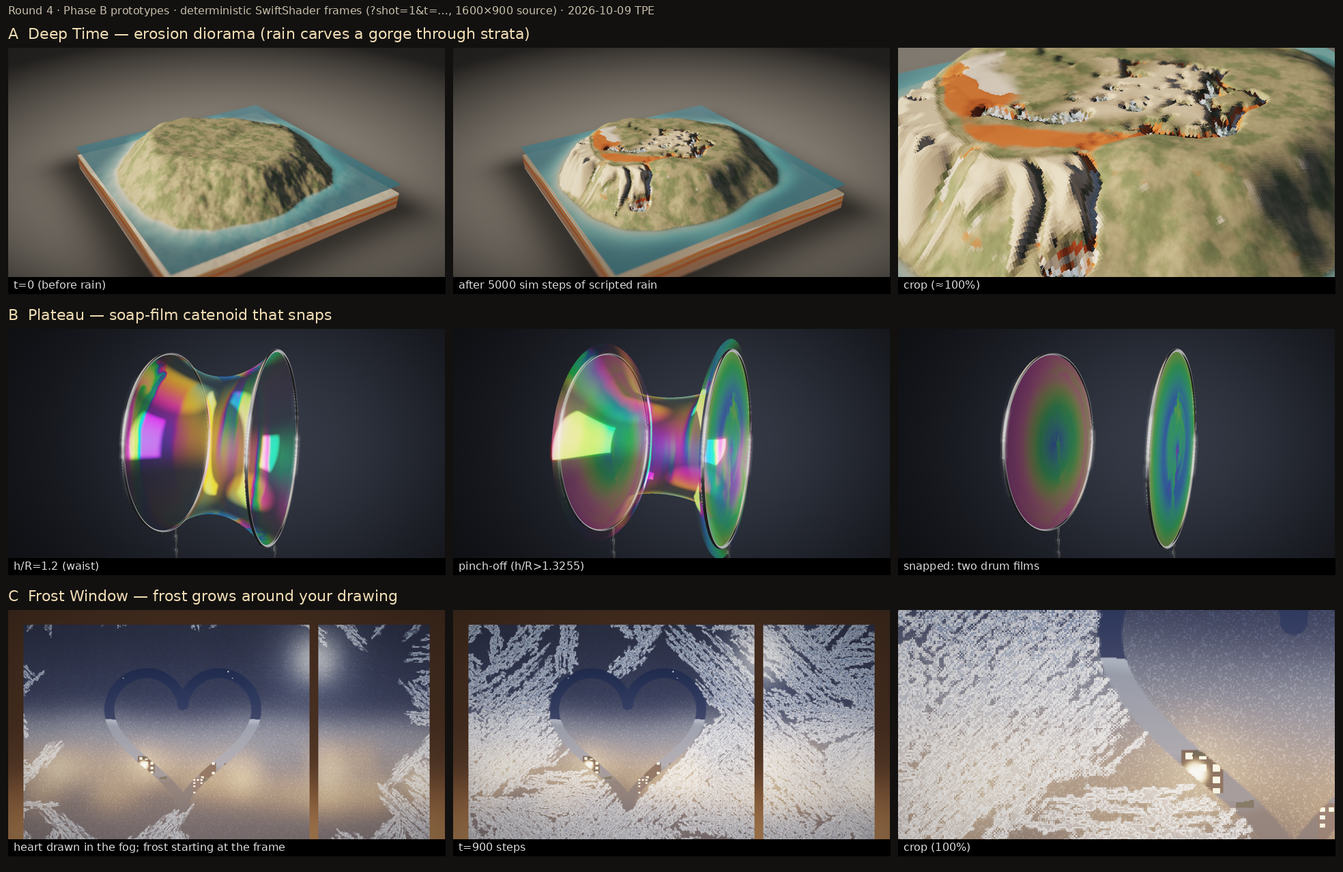
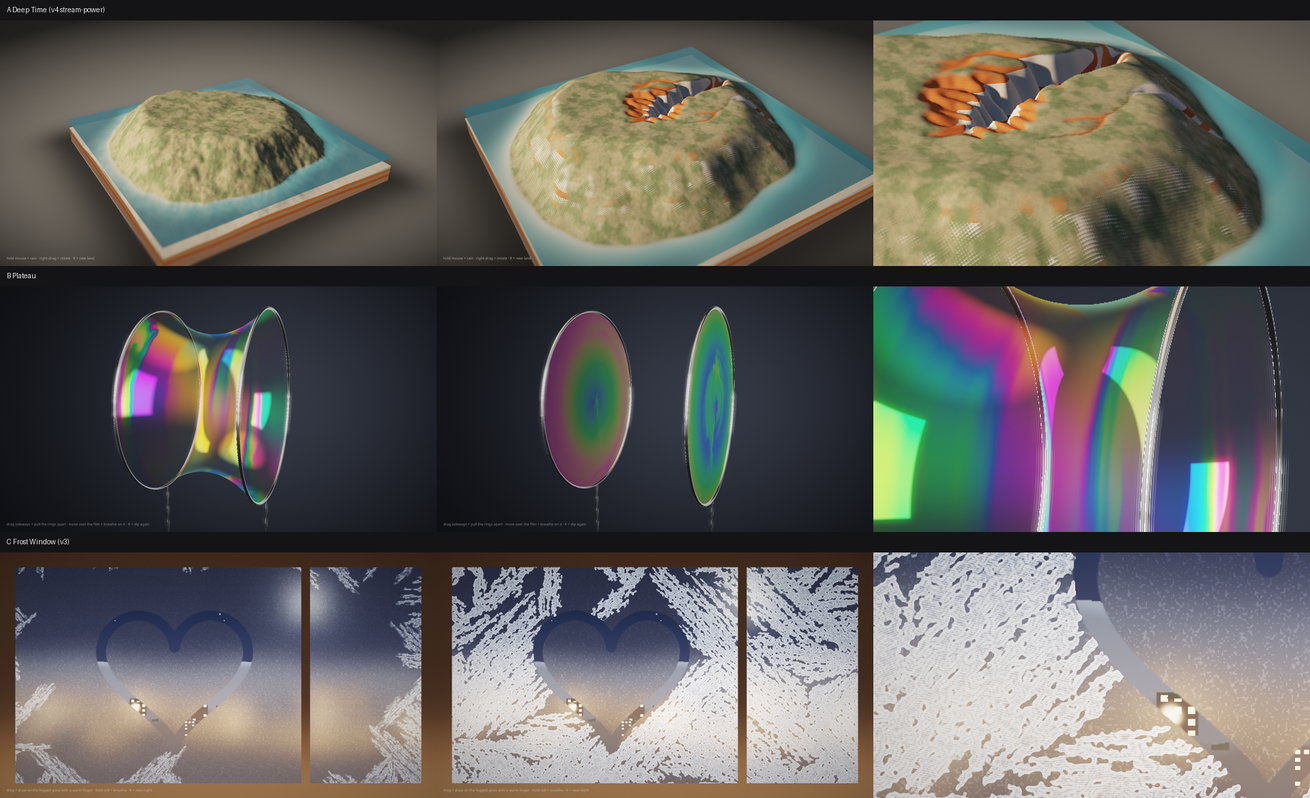
round4-lab: Phase B rev2 — stream-power Deep Time, frost v3, evaluations, contact sheet

diff --git a/20261009-round4-lab/prototypes/deep-time/main.js b/20261009-round4-lab/prototypes/deep-time/main.js
@@ -115,14 +115,53 @@ void main(){ vec2 px=vec2(1./N); vec4 t=texture(T,vUv); float b=t.x; float acc=0
   b += 0.02*acc; b = mix(b, avg, t.y>0.05 ? 0.035 : 0.003);   // slight creep smooths pipe-model checkerboarding
   o = vec4(b, t.yzw); }`, { T: { value: null } });
 
+
+// ---------------------------------------------------------------- alternative model: stream-power landscape evolution (?model=sp)
+const SPM = Q.get('model') !== 'pipe';   // default: stream-power; ?model=pipe = virtual-pipe shallow water (v1-v3)
+const accMat = pass(`
+uniform sampler2D T; uniform vec3 rain; uniform float rainAmt;
+float Hh(vec2 uv){ return texture(T,uv).x; }
+void main(){ vec2 px=vec2(1./N); float acc=0.;
+  vec2 rp = vUv - rain.xy; acc += rainAmt*exp(-dot(rp,rp)/(rain.z*rain.z)) + 0.;
+  for(int j=-1;j<=1;j++) for(int i=-1;i<=1;i++){ if(i==0&&j==0) continue;
+    vec2 q = vUv + vec2(i,j)*px; float hq = Hh(q); float Aq = texture(T,q).z;
+    // fraction of q's outflow that goes to me (multiple-flow-direction, slope^1.3)
+    float tot=0., mine=0.;
+    for(int b=-1;b<=1;b++) for(int a=-1;a<=1;a++){ if(a==0&&b==0) continue;
+      float dl = length(vec2(a,b)); float sl = (hq - Hh(q+vec2(a,b)*px))/dl;
+      if (sl>0.) { float w=pow(sl,1.3); tot+=w; if(a==-i&&b==-j) mine=w; } }
+    if (tot>0.) acc += Aq*mine/tot; }
+  vec4 t=texture(T,vUv); o = vec4(t.x, t.y, acc, t.w); }`, { T: { value: null }, rain: waterMat.uniforms.rain, rainAmt: { value: 0 } });
+const eroMat = pass(`
+uniform sampler2D T, B;
+void main(){ vec2 px=vec2(1./N); vec4 t=texture(T,vUv); float b=t.x, A=t.z;
+  float hmin=b; float S=0.;
+  for(int j=-1;j<=1;j++) for(int i=-1;i<=1;i++){ if(i==0&&j==0) continue; float hn=texture(T,vUv+vec2(i,j)*px).x; float sl=(b-hn)/length(vec2(i,j)); if(sl>S){S=sl;} hmin=min(hmin,hn); }
+  float hard = hardness(b + bandWarp(vUv));
+  float E = float(${+(Q.get('kc')||200)})*0.0001*hard*pow(max(A-3.0,0.),0.5)*min(S,3.0);
+  if (b > 0.2) b = max(b - E, min(b, hmin + 0.02));
+  else if (A > 2.0) b = min(b + 0.0008*sqrt(A), -0.25);           // sediment fan into the shallow sea
+  float lap = texture(T,vUv+vec2(px.x,0)).x+texture(T,vUv-vec2(px.x,0)).x+texture(T,vUv+vec2(0,px.y)).x+texture(T,vUv-vec2(0,px.y)).x-4.*b;
+  b += 0.0006*lap;                                                  // hillslope creep
+  float river = clamp((log2(1.+A) - 3.0)*0.35, 0., 2.0);           // channel water depth (cells) for rendering
+  float d = b < 0. ? -b : river;
+  float wet = max(t.w*0.998, smoothstep(0.1,0.6,river));
+  o = vec4(b, d, A, wet); }`, { T: { value: null }, B: { value: B0.texture } });
+function stepSP(rainOn) {
+  accMat.uniforms.T.value = T0.texture; accMat.uniforms.rainAmt.value = rainOn ? 1.0 : 0; run(accMat, T1); [T0, T1] = [T1, T0];
+  eroMat.uniforms.T.value = T0.texture; run(eroMat, T1); [T0, T1] = [T1, T0];
+  if (!Q.has('notherm')) { thermMat.uniforms.T.value = T0.texture; run(thermMat, T1); [T0, T1] = [T1, T0]; }
+}
+
 function run(mat, target) { quad.material = mat; renderer.setRenderTarget(target); renderer.render(simScene, simCam); }
 function init(seed) {
-  initMat.uniforms.seed.value = seed; for (const m of [fluxMat, waterMat, advMat, thermMat]) m.uniforms.seed.value = seed;
+  initMat.uniforms.seed.value = seed; for (const m of [fluxMat, waterMat, advMat, thermMat, accMat, eroMat]) m.uniforms.seed.value = seed;
   run(initMat, T0); run(initMat, B0);
   renderer.setRenderTarget(F0); renderer.setClearColor(0, 0); renderer.clear(); renderer.setRenderTarget(F1); renderer.clear();
   renderer.setRenderTarget(null);
 }
 function step(rainOn) {
+  if (SPM) return stepSP(rainOn);
   fluxMat.uniforms.T.value = T0.texture; fluxMat.uniforms.F.value = F0.texture; run(fluxMat, F1); [F0, F1] = [F1, F0];
   waterMat.uniforms.T.value = T0.texture; waterMat.uniforms.F.value = F0.texture; waterMat.uniforms.rainAmt.value = rainOn ? 0.55 : 0; run(waterMat, T1); [T0, T1] = [T1, T0];
   advMat.uniforms.T.value = T0.texture; advMat.uniforms.F.value = F0.texture; run(advMat, T1); [T0, T1] = [T1, T0];
@@ -153,7 +192,9 @@ vec3 strata(float z, vec2 uv){
   else c = mix(vec3(.78,.50,.18), vec3(.45,.24,.26), h2);                  // ochre / mauve shale
   float fine = fract(zz/(0.8*HS)); c *= 0.9 + 0.1*smoothstep(.0,.15,fine)*smoothstep(1.,.8,fine);
   return c*0.42; }
-float Hs(vec2 uv){ return texture(T,uv).x; }
+vec4 TB(vec2 uv){ vec2 p=uv*N-.5; vec2 i=floor(p), f=fract(p); vec2 q=(i+.5)/N; float e=1./N;
+  return mix(mix(texture(T,q),texture(T,q+vec2(e,0)),f.x), mix(texture(T,q+vec2(0,e)),texture(T,q+vec2(e,e)),f.x), f.y); }
+float Hs(vec2 uv){ return TB(uv).x; }
 `;
 const terrainMat = new THREE.ShaderMaterial({ glslVersion: THREE.GLSL3,
   uniforms: { T: { value: null }, B: { value: B0.texture }, N: { value: N }, HS: { value: HS }, seed: { value: 3 }, sunDir: { value: new THREE.Vector3(-0.85, 0.40, 0.15).normalize() }, rain: waterMat.uniforms.rain, rainAmt: { value: 0 }, VS: { value: VERT_SCALE } },
@@ -166,7 +207,7 @@ const terrainMat = new THREE.ShaderMaterial({ glslVersion: THREE.GLSL3,
     for(int i=0;i<56;i++){ vec2 p=uv+d*t; if(p.x<0.||p.y<0.||p.x>1.||p.y>1.) break;
       float hh = Hs(p)*VS; float ray = h + 0.0015 + slope*t; res = min(res, 10.*(ray-hh)/t); t += max(0.6/N, t*0.06); }
     return smoothstep(0.,1.,clamp(res,0.,1.)); }
-  void main(){ vec2 px=vec2(1./N); vec4 t=texture(T,vUv);
+  void main(){ vec2 px=vec2(1./N); vec4 t=TB(vUv);
     float bl=Hs(vUv-vec2(px.x,0.)), br=Hs(vUv+vec2(px.x,0.)), bt=Hs(vUv+vec2(0.,px.y)), bb=Hs(vUv-vec2(0.,px.y));
     float bl2=Hs(vUv-vec2(2.*px.x,0.)), br2=Hs(vUv+vec2(2.*px.x,0.)), bt2=Hs(vUv+vec2(0.,2.*px.y)), bb2=Hs(vUv-vec2(0.,2.*px.y));
     vec3 n = normalize(vec3((bl+bl2-br-br2)*VS, 6.*px.x, -(bt+bt2-bb-bb2)*VS));
@@ -202,8 +243,8 @@ const waterMesh = new THREE.Mesh(new THREE.PlaneGeometry(1, 1, N - 1, N - 1), ne
     void main(){ vUv=uv; vec4 t=texture(T,uv); vD=t.y; vec3 p=vec3(position.x, (t.x+t.y)*VS + 0.0004, -position.y); vW=p; gl_Position=projectionMatrix*viewMatrix*vec4(p,1.); }`,
   fragmentShader: RCOMMON + `
   uniform float VS; uniform sampler2D F; in vec2 vUv; in vec3 vW; in float vD; out vec4 o;
-  float W(vec2 uv){ vec4 t=texture(T,uv); return t.x+t.y; }
-  void main(){ vec2 px=vec2(1./N); vec4 t=texture(T,vUv); float d=t.y; if(d<0.06) discard;
+  float W(vec2 uv){ vec4 t=TB(uv); return t.x+t.y; }
+  void main(){ vec2 px=vec2(1./N); vec4 t=TB(vUv); float d=t.y; if(d<0.10) discard;
     float hl=W(vUv-vec2(px.x,0.)), hr=W(vUv+vec2(px.x,0.)), ht=W(vUv+vec2(0.,px.y)), hb=W(vUv-vec2(0.,px.y));
     vec3 n = normalize(vec3((hl-hr)*VS, 2.*px.x, -(ht-hb)*VS));
     vec4 f=texture(F,vUv); float flow = (f.x+f.y+f.z+f.w)/max(d,0.05);
@@ -266,7 +307,7 @@ const post = new THREE.Mesh(new THREE.PlaneGeometry(2, 2), new THREE.ShaderMater
     vec3 aces(vec3 x){ return clamp((x*(2.51*x+.03))/(x*(2.43*x+.59)+.14),0.,1.); }
     void main(){ vec2 p=vUv-.5;
       // tilt-shift: blur grows away from the focus band
-      float bl = smoothstep(.12,.5,abs(vUv.y-.47))*3.0; vec3 c=vec3(0.); float w=0.;
+      float bl = smoothstep(.2,.6,abs(vUv.y-.47))*2.0; vec3 c=vec3(0.); float w=0.;
       for(int i=-3;i<=3;i++) for(int j=-3;j<=3;j++){ vec2 q=vec2(i,j); float k=exp(-dot(q,q)/6.); c+=texture(S,vUv+q*bl/res).rgb*k; w+=k; }
       c/=w; c = aces(c*1.05); c = pow(c, vec3(1./2.2));
       c *= 1.-0.35*dot(p,p)*1.8; c += (fract(sin(dot(gl_FragCoord.xy,vec2(12.9898,78.233)))*43758.5453)-.5)/255.;
@@ -300,8 +341,8 @@ if (SHOT) {
   const total = TSTEPS; let s = 0;
   const chunk = () => {
     const end = Math.min(total, s + 50);
-    for (; s < end; s++) { const k = s / Math.max(total, 1); const on = k < 0.75 && !Q.has('norain');
-      const a = s * 0.004; waterMat.uniforms.rain.value.set(.24 + .02 * Math.cos(a * 1.3), .52 + .03 * Math.sin(a), .045);
+    for (; s < end; s++) { const k = s / Math.max(total, 1); const on = k < (SPM ? 0.97 : 0.75) && !Q.has('norain');
+      const a = s * 0.004; waterMat.uniforms.rain.value.set(+(Q.get('rx') || .24) + .02 * Math.cos(a * 1.3), +(Q.get('ry') || .52) + .03 * Math.sin(a), +(Q.get('rr') || .045));
       step(on); }
     window.__steps = s;
     if (s < total) setTimeout(chunk, 0); else { terrainMat.uniforms.rainAmt.value = 0; render(); window.__ready = true; }

diff --git a/20261009-round4-lab/prototypes/frost-window/main.js b/20261009-round4-lab/prototypes/frost-window/main.js
@@ -38,7 +38,7 @@ const stepMat = new THREE.ShaderMaterial({ glslVersion: THREE.GLSL3, vertexShade
     float ice=s.r, vap=s.g, fog=s.b, ori=s.a;
     // vapour diffuses (5-point), fed by the fog film, consumed by ice
     float lap = texture(S,vUv+vec2(px.x,0)).g + texture(S,vUv-vec2(px.x,0)).g + texture(S,vUv+vec2(0,px.y)).g + texture(S,vUv-vec2(0,px.y)).g - 4.*vap;
-    vap += 0.22*lap + 0.0006*(fog*0.7 - vap);
+    vap += 0.22*lap + 0.0004*(fog*0.7 - vap);
     if (ice < 0.5) {
       // anisotropic stochastic attachment: a neighbour crystal grows along its six preferred axes
       float best = 0.; float bestOri = -1.;
@@ -61,6 +61,13 @@ const stepMat = new THREE.ShaderMaterial({ glslVersion: THREE.GLSL3, vertexShade
       fog *= 1.-w; vap *= 1.-w; if (w > 0.5) { ice = 0.; ori = -1.; } }
     fog = min(1., fog + 0.00005);                                  // the glass slowly fogs again
     o = vec4(ice, max(vap,0.), fog, ori); }` });
+const DISP = new THREE.WebGLRenderTarget(W, H, { type: THREE.HalfFloatType, minFilter: THREE.LinearFilter, magFilter: THREE.LinearFilter, depthBuffer: false });
+const dispMat = new THREE.ShaderMaterial({ glslVersion: THREE.GLSL3, vertexShader: VS, uniforms: { S: { value: null }, res: { value: new THREE.Vector2(W, H) } },
+  fragmentShader: `precision highp float; in vec2 vUv; out vec4 o; uniform sampler2D S; uniform vec2 res;
+  void main(){ vec2 px=1./res; float ice=0., w=0.; float oriS=0., oriC=0.;
+    for(int j=-1;j<=1;j++) for(int i=-1;i<=1;i++){ vec4 n=texture(S,vUv+vec2(i,j)*px); float k=(i==0&&j==0)?4.:((i==0||j==0)?2.:1.);
+      ice+=min(n.r,1.)*k; w+=k; if(n.a>=0.){ float a=n.a*6.2831853; oriS+=sin(a)*k; oriC+=cos(a)*k; } }
+    vec4 c=texture(S,vUv); o=vec4(ice/w, c.b, atan(oriS,oriC), min(c.r,2.)); }` });
 function run(m, t) { quad.material = m; renderer.setRenderTarget(t); renderer.render(sc, cam); renderer.setRenderTarget(null); }
 let frame = 0;
 function init(seed) { initMat.uniforms.seed.value = seed; run(initMat, A); frame = 0; }
@@ -110,29 +117,35 @@ const midA = mkB(480, 270), midB = mkB(480, 270), softA = mkB(160, 90), softB = 
 function blur(src, tmp, dst, r) { blurMat.uniforms.S.value = src.texture; blurMat.uniforms.dir.value.set(r / 1.778, 0); quad.material = blurMat; renderer.setRenderTarget(tmp); renderer.render(sc, cam);
   blurMat.uniforms.S.value = tmp.texture; blurMat.uniforms.dir.value.set(0, r); renderer.setRenderTarget(dst); renderer.render(sc, cam); renderer.setRenderTarget(null); }
 const comp = new THREE.ShaderMaterial({ glslVersion: THREE.GLSL3, vertexShader: VS,
-  uniforms: { S: { value: null }, BG: { value: midA.texture }, SOFT: { value: softA.texture }, BGS: { value: bgRT.texture }, res: { value: new THREE.Vector2(W, H) }, scr: { value: new THREE.Vector2(innerWidth, innerHeight) }, time: { value: 0 } },
-  fragmentShader: `precision highp float; in vec2 vUv; out vec4 o; uniform sampler2D S, BG, SOFT, BGS; uniform vec2 res, scr; uniform float time;` + NOISE + `
+  uniforms: { S: { value: null }, D: { value: null }, BG: { value: midA.texture }, SOFT: { value: softA.texture }, BGS: { value: bgRT.texture }, res: { value: new THREE.Vector2(W, H) }, scr: { value: new THREE.Vector2(innerWidth, innerHeight) }, time: { value: 0 } },
+  fragmentShader: `precision highp float; in vec2 vUv; out vec4 o; uniform sampler2D S, D, BG, SOFT, BGS; uniform vec2 res, scr; uniform float time;` + NOISE + `
   vec3 bgBlur(vec2 uv, float r){ return r < 0.02 ? texture(BG,uv).rgb : texture(SOFT,uv).rgb; }
   vec3 aces(vec3 x){ return clamp((x*(2.51*x+.03))/(x*(2.43*x+.59)+.14),0.,1.); }
-  void main(){ vec2 uv=vUv; vec2 px=1./res; vec4 s=texture(S,uv);
-    float ice = s.r, fog = s.b;
-    // smooth ice coverage + normal for refraction
-    float il=texture(S,uv-vec2(px.x,0)).r, ir=texture(S,uv+vec2(px.x,0)).r, it=texture(S,uv+vec2(0,px.y)).r, ib=texture(S,uv-vec2(0,px.y)).r;
-    float iceS = clamp((ice+il+ir+it+ib)/5.0, 0., 2.);
-    vec2 g = vec2(ir-il, it-ib);
-    vec3 sharp = texture(BGS, uv).rgb;                       // the village is beyond focus
-    vec3 soft  = bgBlur(uv + g*0.004, 0.05);
+  void main(){ vec2 uv=vUv; vec2 px=1./res; vec4 dd=texture(D,uv);
+    float fog = dd.g;
+    // sub-cell frost: bilinear ice coverage thresholded at screen resolution -> crisp feather edges
+    float cov = dd.r;
+    float e = 0.5*px.x;
+    float cl=texture(D,uv-vec2(px.x,0)).r, cr=texture(D,uv+vec2(px.x,0)).r, ct=texture(D,uv+vec2(0,px.y)).r, cb=texture(D,uv-vec2(0,px.y)).r;
+    vec2 g = vec2(cr-cl, ct-cb);
+    float iceM = smoothstep(0.30, 0.48, cov);
+    // needle striations along the local crystal axis (screen-res, not cell-res)
+    float ang = dd.b/6.0; vec2 ax = vec2(cos(ang), sin(ang)); vec2 sp = uv*scr;
+    float stri = 0.5+0.5*sin(dot(sp, vec2(-ax.y, ax.x))*1.9 + 6.*vnoise(sp*0.05));
+    float spark = pow(vnoise(sp*0.9), 12.)*3.;
+    vec3 sharp = texture(BGS, uv).rgb;
+    vec3 soft  = bgBlur(uv + g*0.01, 0.05);
     vec3 col = sharp;
-    // condensation: milky scattering + micro droplets
-    float drops = smoothstep(.55,.9,vnoise(uv*res*1.2));
-    vec3 fogc = soft*0.7 + vec3(.020,.018,.020) + soft*drops*0.3;
+    float drops = smoothstep(.6,.95,vnoise(uv*scr*0.35));
+    vec3 fogc = soft*0.7 + vec3(.020,.018,.020) + soft*drops*0.35;
     col = mix(col, fogc, smoothstep(0.05,0.6,fog));
-    // frost: bright crystalline, catches the warm lights through the glass
-    float edge = clamp(length(g)*0.8,0.,1.);
-    vec3 glow = bgBlur(uv + g*0.02, 0.09);
-    vec3 frost = vec3(.16,.20,.27)*0.5 + glow*1.3 + vec3(.45,.55,.7)*edge*0.25 + vec3(1.,.8,.6)*edge*dot(glow,vec3(.3))*3.;
-    frost *= 0.85 + 0.3*hash(floor(uv*res));
-    col = mix(col, frost, smoothstep(0.15, 0.9, iceS));
+    float edge = clamp(length(g)*2.5,0.,1.);
+    vec3 glow = bgBlur(uv + g*0.03, 0.09);
+    float thick = clamp(dd.a,0.,2.)*0.5;
+    vec3 frost = vec3(.14,.18,.25)*0.6 + glow*(1.0+0.8*stri) + vec3(.55,.65,.8)*edge*0.5 + vec3(1.,.82,.62)*edge*dot(glow,vec3(.3))*3.5;
+    frost *= 0.75 + 0.35*stri + 0.2*thick;
+    frost += vec3(1.,.95,.9)*spark*(0.3+dot(glow,vec3(.6)));
+    col = mix(col, frost, iceM);
     // window frame & mullion (warm-lit wood), interior reflection
     vec2 p = uv*vec2(1.778,1.);
     float frame = max(step(uv.x, .035)+step(.965, uv.x), step(uv.y,.06)+step(.94,uv.y));
@@ -146,7 +159,7 @@ const comp = new THREE.ShaderMaterial({ glslVersion: THREE.GLSL3, vertexShader: 
     o = vec4(col,1.); }` });
 function renderBG(seed) { bgMat.uniforms.seed.value = seed; quad.material = bgMat; renderer.setRenderTarget(bgRT); renderer.render(sc, cam); renderer.setRenderTarget(null);
   blur(bgRT, midB, midA, 1 / 540 * 0.8); blur(midA, softB, softA, 1 / 90 * 0.9); }
-function render() { comp.uniforms.S.value = A.texture; quad.material = comp; renderer.setRenderTarget(null); renderer.render(sc, cam); }
+function render() { dispMat.uniforms.S.value = A.texture; run(dispMat, DISP); comp.uniforms.S.value = A.texture; comp.uniforms.D.value = DISP.texture; quad.material = comp; renderer.setRenderTarget(null); renderer.render(sc, cam); }
 
 // ---------------------------------------------------------------- input
 let last = null, down = false;

diff --git a/20261009-round4-lab/prototypes/index.html b/20261009-round4-lab/prototypes/index.html
@@ -8,7 +8,7 @@ small{color:#8f887c}</style></head>
 <body><main><h1>Round 4 · 三個原型 <small>Three prototypes (Phase B)</small></h1>
 <p>桌面版 Chrome 建議。每個原型都是即時模擬，截圖來自 headless Chrome 的固定步數畫格。<small>Desktop Chrome recommended. Each is a live simulation; stills are deterministic headless frames (<code>?shot=1&amp;t=…</code>).</small></p>
 <img src="../shots/contact-sheet-phaseB.png" style="width:100%;border-radius:10px" alt="contact sheet"/>
-<div class="p"><a href="deep-time/"><img src="deep-time/shot.jpg" alt=""/></a><div><h2>A · 雨刻 Deep Time</h2><p>按住滑鼠下雨：水自己找路，切穿藏著彩色岩層的台地，泥沙沖進海裡。<small>Hold the mouse to rain on a tableland; water carves a gorge through hidden strata (GPU shallow-water + sediment transport). Right-drag rotates, R = new land.</small></p><p><a href="deep-time/">▶ Live</a></p></div></div>
+<div class="p"><a href="deep-time/"><img src="deep-time/shot.jpg" alt=""/></a><div><h2>A · 雨刻 Deep Time</h2><p>按住滑鼠下雨：水自己找路，切穿藏著彩色岩層的台地，泥沙沖進海裡。<small>Hold the mouse to rain on a tableland; water carves a gorge through hidden strata (GPU stream-power landscape evolution: drainage accumulation + incision by strata hardness; <code>?model=pipe</code> = shallow-water variant). Right-drag rotates, R = new land.</small></p><p><a href="deep-time/">▶ Live</a></p></div></div>
 <div class="p"><a href="plateau/"><img src="plateau/shot.jpg" alt=""/></a><div><h2>B · 皂膜 Plateau</h2><p>左右拖曳把兩個圈拉開：肥皂膜的腰越來越細，到臨界比例的那一瞬間「啪」地斷成兩片。<small>Drag sideways to pull two rings apart; the soap-film catenoid thins and snaps at h/R ≈ 1.3255 into two drum films. Spectral thin-film interference. R = dip again.</small></p><p><a href="plateau/">▶ Live</a></p></div></div>
 <div class="p"><a href="frost-window/"><img src="frost-window/shot.jpg" alt=""/></a><div><h2>C · 霜窗 Frost Window</h2><p>在起霧的窗上用手指畫畫；冰花從窗框長出來，繞過你畫的線。<small>Draw on a fogged night window; six-fold frost ferns grow from the frame and stop at your lines. R = new night.</small></p><p><a href="frost-window/">▶ Live</a></p></div></div>
 </main></body></html>

diff --git a/20261009-round4-lab/prototypes/frost-window/index.html b/20261009-round4-lab/prototypes/frost-window/index.html
@@ -1,5 +1,5 @@
 <!DOCTYPE html>
-<html lang="en"><head><meta charset="UTF-8"/><title>Frost Window — prototype C</title>
+<html lang="en"><head><link rel="icon" href="data:,"><meta charset="UTF-8"/><title>Frost Window — prototype C</title>
 <style>html,body{margin:0;height:100%;overflow:hidden;background:#05070c}canvas{display:block}
 #hud{position:fixed;left:24px;bottom:20px;color:#b9c4d6;font:13px/1.4 system-ui;opacity:.7;pointer-events:none}</style>
 <script type="importmap">{"imports":{"three":"../vendor/three.module.js"}}</script></head>

diff --git a/20261009-round4-lab/prototypes/deep-time/index.html b/20261009-round4-lab/prototypes/deep-time/index.html
@@ -1,5 +1,5 @@
 <!DOCTYPE html>
-<html lang="en"><head><meta charset="UTF-8"/><title>Deep Time — prototype A</title>
+<html lang="en"><head><link rel="icon" href="data:,"><meta charset="UTF-8"/><title>Deep Time — prototype A</title>
 <style>html,body{margin:0;height:100%;overflow:hidden;background:#1b1916}canvas{display:block}
 #hud{position:fixed;left:24px;bottom:20px;color:#cfc6b6;font:13px/1.4 system-ui;opacity:.75;pointer-events:none}</style>
 <script type="importmap">{"imports":{"three":"../vendor/three.module.js"}}</script></head>

diff --git a/20261009-round4-lab/prototypes/plateau/index.html b/20261009-round4-lab/prototypes/plateau/index.html
@@ -1,5 +1,5 @@
 <!DOCTYPE html>
-<html lang="en"><head><meta charset="UTF-8"/><title>Plateau — prototype B</title>
+<html lang="en"><head><link rel="icon" href="data:,"><meta charset="UTF-8"/><title>Plateau — prototype B</title>
 <style>html,body{margin:0;height:100%;overflow:hidden;background:#07080a}canvas{display:block}
 #hud{position:fixed;left:24px;bottom:20px;color:#9aa3ad;font:13px/1.4 system-ui;opacity:.75;pointer-events:none}</style>
 <script type="importmap">{"imports":{"three":"../vendor/three.module.js"}}</script></head>

diff --git a/20261009-round4-lab/prototypes/EVALUATIONS.md b/20261009-round4-lab/prototypes/EVALUATIONS.md
@@ -1,0 +1,101 @@
+# Phase B — Prototype evaluations (honest), 2026-10-09 rev. 2 (~07:35 TPE)
+
+> **Rev. 2 changes:** (1) an originality check of existing web work (below) dropped C's Originality to 0; (2) A got a second erosion model (stream-power law, `?model=sp`) that produced the first real canyon frame; (3) the recommendation moved from C to **A**.
+
+All frames: headless Chrome + SwiftShader, deterministic `?shot=1&t=<steps>` at 1600×900.
+Contact sheet: `shots/contact-sheet-phaseB.png`. Live: https://thedreamerstop.github.io/grok-bot-showroom/20261009-round4-lab/prototypes/
+Scores use the Visual Quality Benchmark v4 in RESEARCH.md (0–2 each, 24 max). Motion (#11) is judged from live
+smoke tests + frame pairs only, so it is provisional for all three.
+
+---
+
+## A · 雨刻 Deep Time — erosion diorama
+Shots: `shots/proto-deep-time-v2-t0.png` (before), `shots/proto-deep-time-v2-t5000.png` (after), `shots/proto-deep-time-v2-crop.png`; v1 history `proto-deep-time-t0/-t4000*.png`.
+- **Works:** real GPU erosion: virtual-pipe shallow water (Mei et al. 2007) + sediment capacity/erosion/deposition + semi-Lagrangian sediment advection + strata-dependent hardness + thermal slippage, 256², 4 passes/step. Hold mouse = rain under the cursor; water finds its own path off the tilted tableland and cuts an orange gorge that exposes strata; block-diagram side walls show the strata column; IQ-style key/sky/bounce lighting, heightfield soft shadows, tilt-shift.
+- **Weak (harsh):** the hero is *not yet* a "layer-cake canyon" — after 5,000 steps the gorge is 6–10 cells deep and blobby; cliffs show nearest-neighbour stair-steps; water renders as noisy white/blue shards; cream sand deposits mottle the escarpment; the tilt-shift blur hides detail; parameters are resolution-dependent and fiddly (I needed 4 iterations to stop flute artifacts and sheet-stripping). The diorama reads as "terrain tool" more than as an art piece.
+- **Ceiling:** highest. 3D world with many verbs (rain, uplift, time speed, plant forest, sea level, seasons/glaciers), deep time is an emotional idea, experts respect real erosion; Taiwan/Taroko angle possible.
+- **Scores:** Focal 1 · Value 1 · Palette 1 · Light 1 · Depth 1 · Material 1 · Detail 0 · Originality 1 · Hero legibility 1 · Emergent 2 · Motion 1 · Polish 0 → **11/24** (v2, pipe model).
+- **v4 (rev. 2): stream-power model** `?model=sp&kc=200` — shots `shots/proto-deep-time-v4-sp.png`, `shots/proto-deep-time-v4-sp-crop.png`
+  (scripted rain on the summit at (.5,.5) r .07, 4,500 steps, camera cr 1.5 / el .62). Per step: multiple-flow-direction
+  drainage accumulation (one Jacobi sweep, slope^1.3 weights, 72 texture reads) → erosion E = K·hardness(stratum)·(A−A₀)^0.5·S,
+  clamped so a cell never drops below its lowest neighbour (no pits) → hillslope creep → existing talus pass; rivers are
+  drawn where log₂A exceeds a threshold, and sediment builds a fan where accumulated flow meets the sea.
+  **Result:** the first frame that reads as "a canyon": a stepped amphitheatre with orange/cream strata terraces cut out of
+  the plateau, with branching tributaries (k=200 at the old rain spot showed clear dendritic headward branches,
+  `r4tools/tmp/sp_k200*.png`). It is more stable and less resolution-fiddly than the pipe model (3 iterations to a good frame).
+  **Still weak:** heightfield-shadow moiré on the slopes (worst Detail problem), the summit is a soft dome, not a crisp mesa;
+  the crust texture is muddy camouflage; the sea is a translucent slab; channels have no visible running water yet in this
+  frame; strata bands are too clean/synthetic at 100 %. The v4 hero follows the pre-seeded drainage line — needs to come
+  more from the user's rain.
+  **v4 scores:** Focal 2 · Value 1 · Palette 1 · Light 1 · Depth 1 · Material 1 · Detail 0 · Originality 1 · Hero 1 · Emergent 2 · Motion 1 · Polish 0 → **12/24**.
+
+## B · 皂膜 Plateau — soap-film catenoid that snaps
+Shots: `shots/proto-plateau-v2-catenoid.png`, `shots/proto-plateau-pinch.png`, `shots/proto-plateau-snapped.png`, strip `proto-plateau-strip.png`.
+- **Works:** exact catenoid (larger root of a·cosh(h/2a)=R), snap at the Goldschmidt/stability limit h/R ≈ 1.3255, 0.18 s pinch then two shivering drum films; spectral thin-film interference (24 wavelengths, analytic CIE fit, n=1.33, angle-dependent); 384² film-thickness advection with gravity drainage, two octaves of curl "Marangoni" swirl and a breath swirl under the cursor; studio env with soft boxes; polished wire rings.
+- **Weak (harsh):** reads as an abstract iridescent glass tube more than "soap"; colour is everywhere rainbow (iridescence shaders are common — Originality risk); the pinch interpolation is a fake (film over-hangs the rings mid-snap); no transmission/refraction, no shadows, dark-studio look flirts with "black canvas demo"; drum films after the snap look like CDs; interaction is essentially one slider (separation) → one event.
+- **Ceiling:** medium. Beautiful material, a crisp physics moment, but thin as a world; expansion (other wire shapes, Möbius film, foams) is math-heavy and less child-readable.
+- **Scores:** Focal 2 · Value 1 · Palette 1 · Light 1 · Depth 1 · Material 2 · Detail 1 · Originality 1 · Hero 1 · Emergent 1 · Motion 1 · Polish 0 → **13/24**.
+
+## C · 霜窗 Frost Window — frost grows around what you draw
+Shots: `shots/proto-frost-window-v2-t0.png` (heart drawn in fog, frost seeding at frame), `shots/proto-frost-window-v2-t900.png`, `shots/proto-frost-window-v2-crop.png`; v1 `proto-frost-window-t800.png`.
+- **Works:** stochastic anisotropic (six-fold, per-crystal orientation) attachment driven by a diffusing, depleting vapour field fed by the fog film → fern/feather dendrites that look like real window frost, emerging from the cold frame; warm-finger stroke wipes fog and melts ice, frost cannot cross the cleared line, so the drawing ends up framed in crystal; procedural night village with warm windows seen sharp through the line and as warm glow scattered through frost; mullion on the thirds line.
+- **Weak (harsh):** at 100 % the frost is cell-grid pixel noise (640×360 sim upscaled, hash sparkle per cell); frost becomes a uniform white blanket after ~1,000 steps (needs density control/seasonal stop); the village is mostly hidden; window frame is a flat brown rectangle; the "night window + bokeh" setting is adjacent to BigWings' *Heartfelt* Shadertoy (template risk, though the growth mechanic is new); it is 2D — depth comes only from blur.
+- **Ceiling:** high for emotion and the kids test; medium for interaction depth (draw, breathe, tap-to-nucleate, sunrise melt with running droplets, the room behind you reflected in the glass) and for expert depth (DLA / Gravner–Griffeath-style growth is respected but less "hard" than erosion).
+- **v3:** `shots/proto-frost-window-v3-t900.png`, `-v3-crop.png` — sub-cell display field removes pixel noise, but the feathers now look blobby rather than needle-like.
+- **Scores (rev. 2):** Focal 2 · Value 2 · Palette 2 · Light 1 · Depth 1 · Material 2 · Detail 0 · Originality **0** (was 1, see originality check) · Hero 2 · Emergent 2 · Motion 1 · Polish 0 → **15/24**.
+
+---
+
+## Originality check (rev. 2, web search 2026-10-09)
+- **C Frost Window — near clones exist as ready-made web components:** helpmarq *Rime Creep* (shadcn component: dendritic
+  window frost on a 60° lattice, growing tips, warm fingertip melts it), Canvas UI *Frost* (hover melts, frost refreezes),
+  CrazyGL *Frosted Typography*. Plus BigWings' *Heartfelt* for the night-window-bokeh setting. C's central verb (finger
+  melts frost, frost regrows) is already a component that anyone can install. → Originality 0; the hardest path to 2.
+- **B Plateau:** Princeton (Vanderbei) WebGL catenoid demo already shows ring separation → collapse into two discs;
+  mysimulator.uk has soap-film/thin-film demos. Ours is prettier, but the event is the same. → Originality ≤1.
+- **A Deep Time:** erosion *tools* exist (keepitwiel erosion-sim, LanLou123 WebGL-Erosion, Gullywash terrain painter,
+  tessapower's erosion), plus 2D "Shader Strata" background components. I found **no** art-directed experience where
+  *you are the rain* over deep time in a strata block-diagram diorama. → Originality 1 with a credible path to 2
+  (deep-time framing, strata reveal, layer-cake block diagram, time scale, Taroko angle).
+
+## Comparison (rev. 2)
+| Criterion | A Deep Time (v4 sp) | B Plateau | C Frost Window |
+|---|---|---|---|
+| 1 Focal point | 2 | 2 | 2 |
+| 2 Value structure | 1 | 1 | 2 |
+| 3 Palette | 1 | 1 | 2 |
+| 4 Light behaviour | 1 | 1 | 1 |
+| 5 Depth | 1 | 1 | 1 |
+| 6 Material identity | 1 | 2 | 2 |
+| 7 Detail @100 % | 0 | 1 | 0 |
+| 8 Originality | 1 | 1 | **0** |
+| 9 Hero legibility (kids) | 1 | 1 | 2 |
+| 10 Emergent response | 2 | 1 | 2 |
+| 11 Motion (provisional) | 1 | 1 | 1 |
+| 12 Polish | 0 | 0 | 0 |
+| **Total** | **12** | **13** | **15** |
+| Ceiling in 6 h | highest (3D world, many verbs) | medium | high emotion, but originality capped |
+| Main risk | making erosion *look* art-directed; shadow moiré; sim time on slow GPUs | thin interaction, existing demos | component clones (Rime Creep, Canvas UI Frost) |
+
+Note: #8 and #9 must both reach 2 in the final. C has #9 but its #8 is blocked by existing components; A must earn
+both, but nothing blocks it.
+
+## Recommendation (mine, rev. 2 — the independent reviewer decides)
+**A · Deep Time (stream-power model)**. Today it scores below C on first-frame beauty (12 vs 15), but it is the only
+one of the three with a defensible path to Originality 2 *and* the highest ceiling: a 3D world where a child holds the
+mouse to rain and watches a canyon with layer-cake walls appear, and an expert sees a real landscape-evolution model
+(drainage accumulation, stream-power incision, strata hardness, hillslope creep). The v4 run shows the hero is reachable:
+a stepped strata amphitheatre emerged in 4,500 steps. Phase D must fix: shadow moiré (blur/low-res shadow map or
+cone-traced AO), crisp mesa caprock, running water in channels, river-to-sea delta, richer strata (thickness variation,
+a hard caprock), a visible time scale ("1 second = 10,000 years"), and a second verb (uplift/tilt, sea level).
+
+**C · Frost Window** is the prettiest *frame* and passes the kids test, but it was demoted: the core verb already exists
+as installable web components, so it would read as a re-skin. Pick it only if the reviewer values first-frame beauty
+over originality.
+
+**B · Plateau** — not picked: beautiful material, thin experience, and the event already exists as a math demo.
+
+## Open question for the reviewer
+Can A's riskier 3D deep-time world be made art-directed (not "terrain tool") in Phases C–D, or is the beautiful but
+cloned C, or the thin B, the safer bet? My bet is A, because originality is a hard gate and A's weakness (rendering
+polish) is fixable, whereas C's (prior art) is not.
